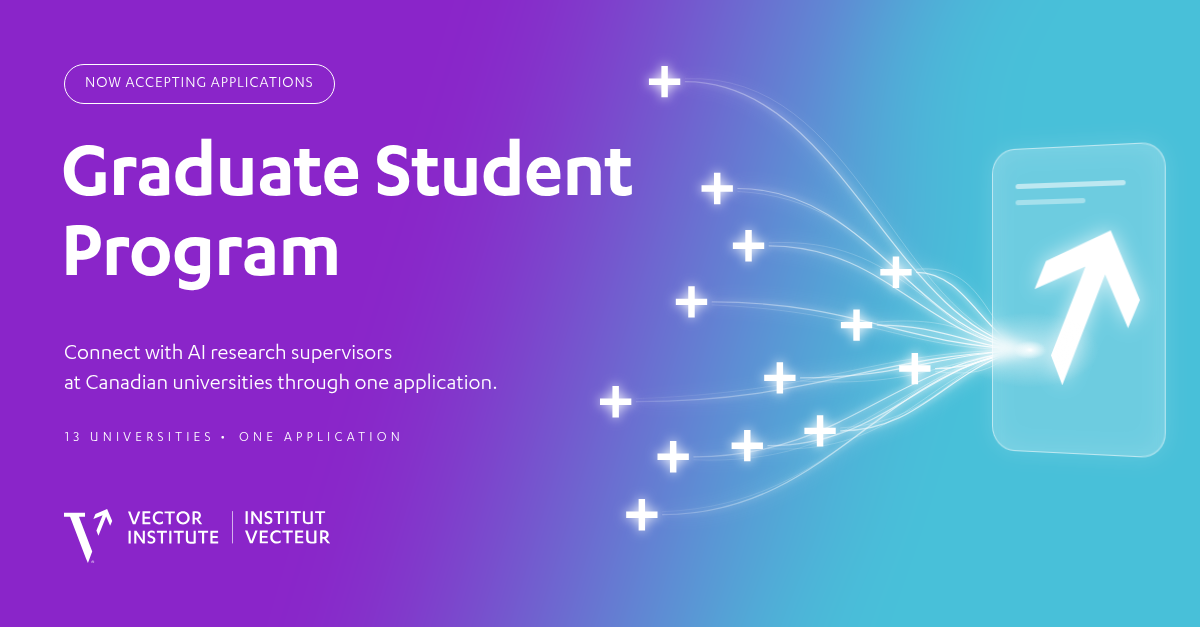
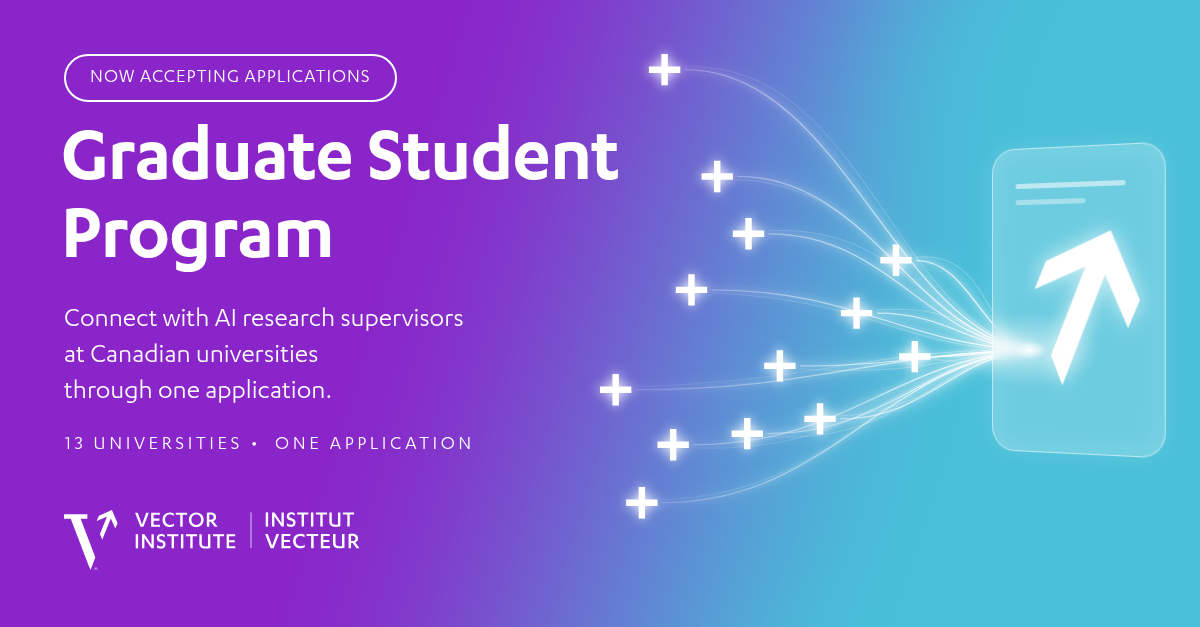
Graduate Student Program graphic: larger supporting text
Byline 23->28px (now three lines so it stays clear of the plus pattern),
pill and tracked line 16/14->20px, logo 54->60px. Adds measure.py to
check text-to-pattern spacing.

Claude-Session: https://claude.ai/code/session_012MwK1vmEpNzT6vtmv9guo8

diff --git a/graduate-student-program/graphic.html b/graduate-student-program/graphic.html
@@ -6,13 +6,13 @@
 html,body{width:1200px;height:627px;overflow:hidden;background:#8A25C9}
 #c{position:relative;width:1200px;height:627px;font-family:Karbon,sans-serif;color:#fff;overflow:hidden}
 .bg,svg.fx{position:absolute;inset:0}
-.pill{position:absolute;left:64px;top:64px;height:40px;padding:0 20px;border:1.5px solid #fff;border-radius:20px;
-  display:flex;align-items:center;font-size:16px;letter-spacing:.06em;font-weight:400}
-h1{position:absolute;left:61px;top:140px;font-weight:600;font-size:82px;line-height:.98;letter-spacing:-.012em}
-.by{position:absolute;left:64px;top:340px;font-size:23px;line-height:1.32;font-weight:400;width:560px}
-.tr{position:absolute;left:65px;top:430px;font-size:14px;letter-spacing:.3em;font-weight:400}
+.pill{position:absolute;left:64px;top:54px;height:48px;padding:0 24px;border:2px solid #fff;border-radius:24px;
+  display:flex;align-items:center;font-size:20px;letter-spacing:.05em;font-weight:400}
+h1{position:absolute;left:61px;top:126px;font-weight:600;font-size:80px;line-height:.98;letter-spacing:-.012em}
+.by{position:absolute;left:64px;top:304px;font-size:28px;line-height:1.28;font-weight:400;width:640px}
+.tr{position:absolute;left:65px;top:433px;font-size:20px;letter-spacing:.18em;font-weight:400}
 .tr i{font-style:normal;margin:0 .7em 0 .4em}
-.logo{position:absolute;left:64px;top:509px;height:54px}
+.logo{position:absolute;left:64px;top:510px;height:60px}
 .stage{position:absolute;left:992px;top:150px;width:176px;height:300px;perspective:900px}
 .card{width:100%;height:100%;border-radius:24px;background:rgba(255,255,255,.2);
   border:1.5px solid rgba(255,255,255,.55);transform:rotateY(-16deg);transform-origin:0 50%;
@@ -34,12 +34,12 @@ h1{position:absolute;left:61px;top:140px;font-weight:600;font-size:82px;line-hei
    <stop offset="1" stop-color="#fff" stop-opacity="0"/></radialGradient>
  </defs>
  <g fill="none" stroke="url(#t)" stroke-linecap="round">
-  <g stroke-width="7" opacity=".35" filter="url(#glow2)"><path d="M662.5 514.7C827.9 514.7 883.0 366.5 1030 350"/><path d="M693.8 456.8C845.1 456.8 895.5 360.7 1030 350"/><path d="M636.3 401.7C813.5 401.7 872.5 355.2 1030 350"/><path d="M767.9 445.7C885.9 445.7 925.2 359.6 1030 350"/><path d="M840.7 430.9C925.9 430.9 954.3 358.1 1030 350"/><path d="M800.5 377.9C903.8 377.9 938.2 352.8 1030 350"/><path d="M877.2 325.1C946.0 325.1 968.9 347.5 1030 350"/><path d="M935.5 368.6C978.0 368.6 992.2 351.9 1030 350"/><path d="M916.6 272.3C967.6 272.3 984.7 342.2 1030 350"/><path d="M712.1 301.9C855.2 301.9 902.9 345.2 1030 350"/><path d="M769.2 245.8C886.6 245.8 925.7 339.6 1030 350"/><path d="M737.9 188.5C869.3 188.5 913.1 333.9 1030 350"/><path d="M685.3 81.7C840.4 81.7 892.1 323.2 1030 350"/></g>
-  <g stroke-width="3" opacity=".6" filter="url(#glow)"><path d="M662.5 514.7C827.9 514.7 883.0 366.5 1030 350"/><path d="M693.8 456.8C845.1 456.8 895.5 360.7 1030 350"/><path d="M636.3 401.7C813.5 401.7 872.5 355.2 1030 350"/><path d="M767.9 445.7C885.9 445.7 925.2 359.6 1030 350"/><path d="M840.7 430.9C925.9 430.9 954.3 358.1 1030 350"/><path d="M800.5 377.9C903.8 377.9 938.2 352.8 1030 350"/><path d="M877.2 325.1C946.0 325.1 968.9 347.5 1030 350"/><path d="M935.5 368.6C978.0 368.6 992.2 351.9 1030 350"/><path d="M916.6 272.3C967.6 272.3 984.7 342.2 1030 350"/><path d="M712.1 301.9C855.2 301.9 902.9 345.2 1030 350"/><path d="M769.2 245.8C886.6 245.8 925.7 339.6 1030 350"/><path d="M737.9 188.5C869.3 188.5 913.1 333.9 1030 350"/><path d="M685.3 81.7C840.4 81.7 892.1 323.2 1030 350"/></g>
-  <g stroke-width="1.2" opacity=".95"><path d="M662.5 514.7C827.9 514.7 883.0 366.5 1030 350"/><path d="M693.8 456.8C845.1 456.8 895.5 360.7 1030 350"/><path d="M636.3 401.7C813.5 401.7 872.5 355.2 1030 350"/><path d="M767.9 445.7C885.9 445.7 925.2 359.6 1030 350"/><path d="M840.7 430.9C925.9 430.9 954.3 358.1 1030 350"/><path d="M800.5 377.9C903.8 377.9 938.2 352.8 1030 350"/><path d="M877.2 325.1C946.0 325.1 968.9 347.5 1030 350"/><path d="M935.5 368.6C978.0 368.6 992.2 351.9 1030 350"/><path d="M916.6 272.3C967.6 272.3 984.7 342.2 1030 350"/><path d="M712.1 301.9C855.2 301.9 902.9 345.2 1030 350"/><path d="M769.2 245.8C886.6 245.8 925.7 339.6 1030 350"/><path d="M737.9 188.5C869.3 188.5 913.1 333.9 1030 350"/><path d="M685.3 81.7C840.4 81.7 892.1 323.2 1030 350"/></g>
-  <g stroke-width=".7" opacity=".5"><path d="M662.5 511.7C847.9 504.7 883.0 360.5 1030 350"/><path d="M693.8 459.8C865.1 466.8 895.5 366.7 1030 350"/><path d="M636.3 398.7C833.5 391.7 872.5 349.2 1030 350"/><path d="M767.9 448.7C905.9 455.7 925.2 365.6 1030 350"/><path d="M840.7 427.9C945.9 420.9 954.3 352.1 1030 350"/><path d="M800.5 380.9C923.8 387.9 938.2 358.8 1030 350"/><path d="M877.2 322.1C966.0 315.1 968.9 341.5 1030 350"/><path d="M935.5 371.6C998.0 378.6 992.2 357.9 1030 350"/><path d="M916.6 269.3C987.6 262.3 984.7 336.2 1030 350"/><path d="M712.1 304.9C875.2 311.9 902.9 351.2 1030 350"/><path d="M769.2 242.8C906.6 235.8 925.7 333.6 1030 350"/><path d="M737.9 191.5C889.3 198.5 913.1 339.9 1030 350"/><path d="M685.3 78.7C860.4 71.7 892.1 317.2 1030 350"/></g>
+  <g stroke-width="7" opacity=".35" filter="url(#glow2)"><path d="M662.5 502.7C827.9 502.7 883.0 365.3 1030 350"/><path d="M693.8 444.8C845.1 444.8 895.5 359.5 1030 350"/><path d="M636.3 389.7C813.5 389.7 872.5 354.0 1030 350"/><path d="M767.9 433.7C885.9 433.7 925.2 358.4 1030 350"/><path d="M840.7 418.9C925.9 418.9 954.3 356.9 1030 350"/><path d="M800.5 365.9C903.8 365.9 938.2 351.6 1030 350"/><path d="M877.2 313.1C946.0 313.1 968.9 346.3 1030 350"/><path d="M935.5 356.6C978.0 356.6 992.2 350.7 1030 350"/><path d="M916.6 260.3C967.6 260.3 984.7 341.0 1030 350"/><path d="M712.1 289.9C855.2 289.9 902.9 344.0 1030 350"/><path d="M769.2 233.8C886.6 233.8 925.7 338.4 1030 350"/><path d="M737.9 176.5C869.3 176.5 913.1 332.7 1030 350"/><path d="M685.3 69.7C840.4 69.7 892.1 322.0 1030 350"/></g>
+  <g stroke-width="3" opacity=".6" filter="url(#glow)"><path d="M662.5 502.7C827.9 502.7 883.0 365.3 1030 350"/><path d="M693.8 444.8C845.1 444.8 895.5 359.5 1030 350"/><path d="M636.3 389.7C813.5 389.7 872.5 354.0 1030 350"/><path d="M767.9 433.7C885.9 433.7 925.2 358.4 1030 350"/><path d="M840.7 418.9C925.9 418.9 954.3 356.9 1030 350"/><path d="M800.5 365.9C903.8 365.9 938.2 351.6 1030 350"/><path d="M877.2 313.1C946.0 313.1 968.9 346.3 1030 350"/><path d="M935.5 356.6C978.0 356.6 992.2 350.7 1030 350"/><path d="M916.6 260.3C967.6 260.3 984.7 341.0 1030 350"/><path d="M712.1 289.9C855.2 289.9 902.9 344.0 1030 350"/><path d="M769.2 233.8C886.6 233.8 925.7 338.4 1030 350"/><path d="M737.9 176.5C869.3 176.5 913.1 332.7 1030 350"/><path d="M685.3 69.7C840.4 69.7 892.1 322.0 1030 350"/></g>
+  <g stroke-width="1.2" opacity=".95"><path d="M662.5 502.7C827.9 502.7 883.0 365.3 1030 350"/><path d="M693.8 444.8C845.1 444.8 895.5 359.5 1030 350"/><path d="M636.3 389.7C813.5 389.7 872.5 354.0 1030 350"/><path d="M767.9 433.7C885.9 433.7 925.2 358.4 1030 350"/><path d="M840.7 418.9C925.9 418.9 954.3 356.9 1030 350"/><path d="M800.5 365.9C903.8 365.9 938.2 351.6 1030 350"/><path d="M877.2 313.1C946.0 313.1 968.9 346.3 1030 350"/><path d="M935.5 356.6C978.0 356.6 992.2 350.7 1030 350"/><path d="M916.6 260.3C967.6 260.3 984.7 341.0 1030 350"/><path d="M712.1 289.9C855.2 289.9 902.9 344.0 1030 350"/><path d="M769.2 233.8C886.6 233.8 925.7 338.4 1030 350"/><path d="M737.9 176.5C869.3 176.5 913.1 332.7 1030 350"/><path d="M685.3 69.7C840.4 69.7 892.1 322.0 1030 350"/></g>
+  <g stroke-width=".7" opacity=".5"><path d="M662.5 499.7C847.9 492.7 883.0 359.3 1030 350"/><path d="M693.8 447.8C865.1 454.8 895.5 365.5 1030 350"/><path d="M636.3 386.7C833.5 379.7 872.5 348.0 1030 350"/><path d="M767.9 436.7C905.9 443.7 925.2 364.4 1030 350"/><path d="M840.7 415.9C945.9 408.9 954.3 350.9 1030 350"/><path d="M800.5 368.9C923.8 375.9 938.2 357.6 1030 350"/><path d="M877.2 310.1C966.0 303.1 968.9 340.3 1030 350"/><path d="M935.5 359.6C998.0 366.6 992.2 356.7 1030 350"/><path d="M916.6 257.3C987.6 250.3 984.7 335.0 1030 350"/><path d="M712.1 292.9C875.2 299.9 902.9 350.0 1030 350"/><path d="M769.2 230.8C906.6 223.8 925.7 332.4 1030 350"/><path d="M737.9 179.5C889.3 186.5 913.1 338.7 1030 350"/><path d="M685.3 66.7C860.4 59.7 892.1 316.0 1030 350"/></g>
  </g>
- <g fill="#fff" filter="url(#pg)"><path d="M626.19 511.51H638.63V499.07H645.07V511.51H657.51V517.96H645.07V530.40H638.63V517.96H626.19Z"/><path d="M657.51 453.54H669.95V441.10H676.40V453.54H688.84V459.98H676.40V472.42H669.95V459.98H657.51Z"/><path d="M600.00 398.52H612.44V386.08H618.89V398.52H631.33V404.96H618.89V417.40H612.44V404.96H600.00Z"/><path d="M731.62 442.47H744.06V430.03H750.50V442.47H762.94V448.92H750.50V461.36H744.06V448.92H731.62Z"/><path d="M804.40 427.66H816.84V415.22H823.29V427.66H835.73V434.11H823.29V446.55H816.84V434.11H804.40Z"/><path d="M764.19 374.67H776.63V362.23H783.08V374.67H795.52V381.12H783.08V393.56H776.63V381.12H764.19Z"/><path d="M840.88 321.89H853.32V309.45H859.76V321.89H872.20V328.33H859.76V340.77H853.32V328.33H840.88Z"/><path d="M899.16 365.37H911.60V352.93H918.05V365.37H930.49V371.82H918.05V384.26H911.60V371.82H899.16Z"/><path d="M880.31 269.05H892.75V256.61H899.19V269.05H911.63V275.50H899.19V287.94H892.75V275.50H880.31Z"/><path d="M675.82 298.66H688.26V286.22H694.71V298.66H707.15V305.11H694.71V317.55H688.26V305.11H675.82Z"/><path d="M732.87 242.56H745.31V230.12H751.76V242.56H764.20V249.00H751.76V261.44H745.31V249.00H732.87Z"/><path d="M701.54 185.28H713.98V172.84H720.43V185.28H732.87V191.72H720.43V204.16H713.98V191.72H701.54Z"/><path d="M648.94 78.44H661.38V66.00H667.83V78.44H680.27V84.89H667.83V97.33H661.38V84.89H648.94Z"/></g>
+ <g fill="#fff" filter="url(#pg)"><path d="M626.19 499.51H638.63V487.07H645.07V499.51H657.51V505.96H645.07V518.40H638.63V505.96H626.19Z"/><path d="M657.51 441.54H669.95V429.10H676.40V441.54H688.84V447.98H676.40V460.42H669.95V447.98H657.51Z"/><path d="M600.00 386.52H612.44V374.08H618.89V386.52H631.33V392.96H618.89V405.40H612.44V392.96H600.00Z"/><path d="M731.62 430.47H744.06V418.03H750.50V430.47H762.94V436.92H750.50V449.36H744.06V436.92H731.62Z"/><path d="M804.40 415.66H816.84V403.22H823.29V415.66H835.73V422.11H823.29V434.55H816.84V422.11H804.40Z"/><path d="M764.19 362.67H776.63V350.23H783.08V362.67H795.52V369.12H783.08V381.56H776.63V369.12H764.19Z"/><path d="M840.88 309.89H853.32V297.45H859.76V309.89H872.20V316.33H859.76V328.77H853.32V316.33H840.88Z"/><path d="M899.16 353.37H911.60V340.93H918.05V353.37H930.49V359.82H918.05V372.26H911.60V359.82H899.16Z"/><path d="M880.31 257.05H892.75V244.61H899.19V257.05H911.63V263.50H899.19V275.94H892.75V263.50H880.31Z"/><path d="M675.82 286.66H688.26V274.22H694.71V286.66H707.15V293.11H694.71V305.55H688.26V293.11H675.82Z"/><path d="M732.87 230.56H745.31V218.12H751.76V230.56H764.20V237.00H751.76V249.44H745.31V237.00H732.87Z"/><path d="M701.54 173.28H713.98V160.84H720.43V173.28H732.87V179.72H720.43V192.16H713.98V179.72H701.54Z"/><path d="M648.94 66.44H661.38V54.00H667.83V66.44H680.27V72.89H667.83V85.33H661.38V72.89H648.94Z"/></g>
 </svg>
 <div class="stage"><div class="card">
  <div class="ln" style="top:34px;width:112px"></div><div class="ln" style="top:50px;width:72px;opacity:.7"></div>
@@ -51,9 +51,9 @@ h1{position:absolute;left:61px;top:140px;font-weight:600;font-size:82px;line-hei
 </svg>
 <div class="pill">NOW ACCEPTING APPLICATIONS</div>
 <h1>Graduate Student<br>Program</h1>
-<p class="by">Connect with AI research supervisors<br>at Canadian universities through one application.</p>
+<p class="by">Connect with AI research supervisors<br>at Canadian universities<br>through one application.</p>
 <p class="tr">13 UNIVERSITIES<i>•</i>ONE APPLICATION</p>
-<svg class="logo" viewBox="0 0 3816 775" height="54" width="265.9"><g transform="scale(0.42) translate(-721.58 -48.16)"><polygon fill="#fff" points="1649.64 1408.87 1232.78 314.36 1440.01 314.36 1440.01 177.41 721.58 177.41 721.58 314.36 929.23 314.36 1472.62 1737.49 1538.97 1893.09 1685.91 1499.05 1649.64 1408.87"/><polygon fill="#fff" points="2194.88 48.16 1796.37 222.5 1724.81 389.53 2041.77 258.1 1829.8 780.97 1827.78 786.02 1898.29 962.38 2160.95 305.76 2298.75 619.65 2369.3 455.1 2194.88 48.16"/><path fill="#fff" d="M1658.45,1855.17c0-26.51,19.57-47.09,46.35-47.09s46.59,20.57,46.59,47.09-19.59,46.83-46.59,46.83-46.35-20.56-46.35-46.83ZM1741.73,1855.17c0-21.56-15.11-38.41-36.93-38.41s-36.68,16.85-36.68,38.41,15.11,38.17,36.68,38.17,36.93-17.1,36.93-38.17ZM1699.59,1877.23h-10.9v-45.1c3.71-.75,9.67-1.49,14.37-1.49,11.16,0,19.57,5.21,19.57,16.36,0,6.19-3.47,11.15-8.17,13.38l12.15,16.85h-12.65l-9.91-14.37h-4.46v14.37ZM1699.59,1853.44h3.47c4.96,0,8.17-1.74,8.17-6.44s-3.47-6.45-7.93-6.45c-.75,0-2.72,0-3.71.24v12.64Z"/></g><g transform="translate(870.25 -2153.19)">
+<svg class="logo" viewBox="0 0 3816 775" height="60" width="295.4"><g transform="scale(0.42) translate(-721.58 -48.16)"><polygon fill="#fff" points="1649.64 1408.87 1232.78 314.36 1440.01 314.36 1440.01 177.41 721.58 177.41 721.58 314.36 929.23 314.36 1472.62 1737.49 1538.97 1893.09 1685.91 1499.05 1649.64 1408.87"/><polygon fill="#fff" points="2194.88 48.16 1796.37 222.5 1724.81 389.53 2041.77 258.1 1829.8 780.97 1827.78 786.02 1898.29 962.38 2160.95 305.76 2298.75 619.65 2369.3 455.1 2194.88 48.16"/><path fill="#fff" d="M1658.45,1855.17c0-26.51,19.57-47.09,46.35-47.09s46.59,20.57,46.59,47.09-19.59,46.83-46.59,46.83-46.35-20.56-46.35-46.83ZM1741.73,1855.17c0-21.56-15.11-38.41-36.93-38.41s-36.68,16.85-36.68,38.41,15.11,38.17,36.68,38.17,36.93-17.1,36.93-38.17ZM1699.59,1877.23h-10.9v-45.1c3.71-.75,9.67-1.49,14.37-1.49,11.16,0,19.57,5.21,19.57,16.36,0,6.19-3.47,11.15-8.17,13.38l12.15,16.85h-12.65l-9.91-14.37h-4.46v14.37ZM1699.59,1853.44h3.47c4.96,0,8.17-1.74,8.17-6.44s-3.47-6.45-7.93-6.45c-.75,0-2.72,0-3.71.24v12.64Z"/></g><g transform="translate(870.25 -2153.19)">
     <polygon fill="#fff" points="117.6 2370.85 47.75 2187.3 82.07 2187.3 137.08 2339.02 191.77 2187.3 225.47 2187.3 155.62 2370.85 117.6 2370.85"/>
     <polygon fill="#fff" points="370.09 2343.03 370.09 2370.86 256.04 2370.86 256.04 2187.27 368.22 2187.27 368.22 2215.11 287.25 2215.11 287.25 2264.55 362.35 2264.55 362.35 2291.76 287.25 2291.76 287.25 2343.03 370.09 2343.03"/>
     <path fill="#fff" d="M548.09,2231.79c-12.67-12.05-30.28-19.16-50.69-19.16-36.15,0-62.12,26.55-62.12,66.43s27.21,66.47,63.05,66.47c20.72,0,37.39-6.18,51.93-18.85v33.66c-16.09,9.56-34.01,13.61-52.87,13.61-56.56,0-94.58-38.91-94.58-94.89s39.88-94.89,94.58-94.89c18.85,0,35.88,4.04,50.69,12.98v34.63Z"/>

diff --git a/graduate-student-program/build.py b/graduate-student-program/build.py
@@ -18,7 +18,7 @@ def rot(x, y):
     if ROT == 'ccw': return (y, PW - x)          # 90 counter-clockwise
     return (x, y)
 PS = 0.43                     # pattern scale
-PX, PY = 600, 66              # pattern origin
+PX, PY = 600, 54              # pattern origin
 ARM = 72.85 * PS              # plus width in px
 BAR = 14.99 * PS              # stroke thickness in px
 pts = [(PX + rot(x, y)[0]*PS, PY + rot(x, y)[1]*PS) for x, y in centers]
@@ -67,13 +67,13 @@ html = f'''<!doctype html><html><head><meta charset="utf-8"><title>Graduate Stud
 html,body{{width:{W}px;height:{H}px;overflow:hidden;background:#8A25C9}}
 #c{{position:relative;width:{W}px;height:{H}px;font-family:Karbon,sans-serif;color:#fff;overflow:hidden}}
 .bg,svg.fx{{position:absolute;inset:0}}
-.pill{{position:absolute;left:64px;top:64px;height:40px;padding:0 20px;border:1.5px solid #fff;border-radius:20px;
-  display:flex;align-items:center;font-size:16px;letter-spacing:.06em;font-weight:400}}
-h1{{position:absolute;left:61px;top:140px;font-weight:600;font-size:82px;line-height:.98;letter-spacing:-.012em}}
-.by{{position:absolute;left:64px;top:340px;font-size:23px;line-height:1.32;font-weight:400;width:560px}}
-.tr{{position:absolute;left:65px;top:430px;font-size:14px;letter-spacing:.3em;font-weight:400}}
+.pill{{position:absolute;left:64px;top:54px;height:48px;padding:0 24px;border:2px solid #fff;border-radius:24px;
+  display:flex;align-items:center;font-size:20px;letter-spacing:.05em;font-weight:400}}
+h1{{position:absolute;left:61px;top:126px;font-weight:600;font-size:80px;line-height:.98;letter-spacing:-.012em}}
+.by{{position:absolute;left:64px;top:304px;font-size:28px;line-height:1.28;font-weight:400;width:640px}}
+.tr{{position:absolute;left:65px;top:433px;font-size:20px;letter-spacing:.18em;font-weight:400}}
 .tr i{{font-style:normal;margin:0 .7em 0 .4em}}
-.logo{{position:absolute;left:64px;top:509px;height:54px}}
+.logo{{position:absolute;left:64px;top:510px;height:60px}}
 .stage{{position:absolute;left:992px;top:150px;width:176px;height:300px;perspective:900px}}
 .card{{width:100%;height:100%;border-radius:24px;background:rgba(255,255,255,.2);
   border:1.5px solid rgba(255,255,255,.55);transform:rotateY(-16deg);transform-origin:0 50%;
@@ -112,9 +112,9 @@ h1{{position:absolute;left:61px;top:140px;font-weight:600;font-size:82px;line-he
 </svg>
 <div class="pill">NOW ACCEPTING APPLICATIONS</div>
 <h1>Graduate Student<br>Program</h1>
-<p class="by">Connect with AI research supervisors<br>at Canadian universities through one application.</p>
+<p class="by">Connect with AI research supervisors<br>at Canadian universities<br>through one application.</p>
 <p class="tr">13 UNIVERSITIES<i>•</i>ONE APPLICATION</p>
-<svg class="logo" viewBox="0 0 {LOGO_W} {LOGO_H}" height="54" width="{54*LOGO_W/LOGO_H:.1f}">{logo_inner}</svg>
+<svg class="logo" viewBox="0 0 {LOGO_W} {LOGO_H}" height="60" width="{60*LOGO_W/LOGO_H:.1f}">{logo_inner}</svg>
 </div></body></html>'''
 (OUT/'graphic.html').write_text(html)
 print('pattern bbox', min(p[0] for p in pts), max(p[0] for p in pts), min(p[1] for p in pts), max(p[1] for p in pts))

diff --git a/graduate-student-program/measure.py b/graduate-student-program/measure.py
@@ -1,0 +1,31 @@
+"""Report text line boxes and the minimum gap between text and the plus pattern."""
+import pathlib
+from playwright.sync_api import sync_playwright
+d = pathlib.Path(__file__).parent
+JS = '''() => {
+  const out = {text: [], plus: []};
+  for (const sel of ['.pill', 'h1', '.by', '.tr', '.logo']) {
+    const el = document.querySelector(sel);
+    let rects = [];
+    if (sel === '.pill' || sel === '.logo') rects = [el.getBoundingClientRect()];
+    else { const r = document.createRange(); r.selectNodeContents(el); rects = [...r.getClientRects()]; }
+    for (const b of rects) out.text.push([sel, b.left, b.top, b.right, b.bottom]);
+  }
+  for (const p of document.querySelectorAll('svg.fx g[fill="#fff"] path')) {
+    const b = p.getBoundingClientRect(); out.plus.push([b.left, b.top, b.right, b.bottom]);
+  }
+  const c = document.querySelector('.card').getBoundingClientRect(); out.card = [c.left, c.top, c.right, c.bottom];
+  return out;
+}'''
+with sync_playwright() as p:
+    b = p.chromium.launch(executable_path='/opt/pw-browsers/chromium-1194/chrome-linux/chrome')
+    pg = b.new_page(viewport={'width': 1200, 'height': 627})
+    pg.goto((d/'graphic.html').as_uri()); pg.wait_for_timeout(300)
+    r = pg.evaluate(JS); b.close()
+def gap(a, b):
+    dx = max(b[0]-a[2], a[0]-b[2], 0); dy = max(b[1]-a[3], a[1]-b[3], 0)
+    return (dx*dx + dy*dy) ** .5
+worst = min((gap(t[1:], q), t[0]) for t in r['text'] for q in r['plus'])
+for t in r['text']: print('%-6s x %4.0f-%4.0f  y %4.0f-%4.0f' % (t[0], t[1], t[3], t[2], t[4]))
+print('pattern x %.0f-%.0f  card x %.0f-%.0f' % (min(q[0] for q in r['plus']), max(q[2] for q in r['plus']), r['card'][0], r['card'][2]))
+print('min text-to-plus gap: %.0fpx (%s)' % worst)
